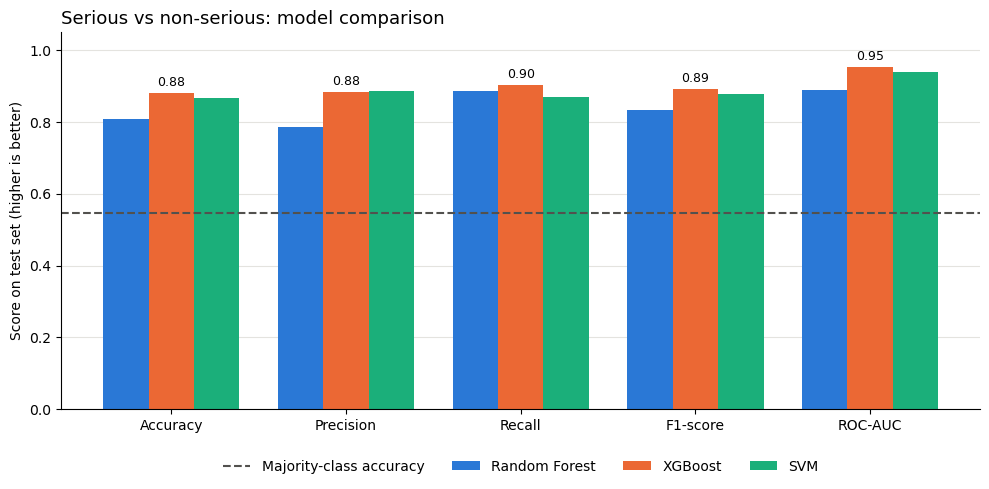
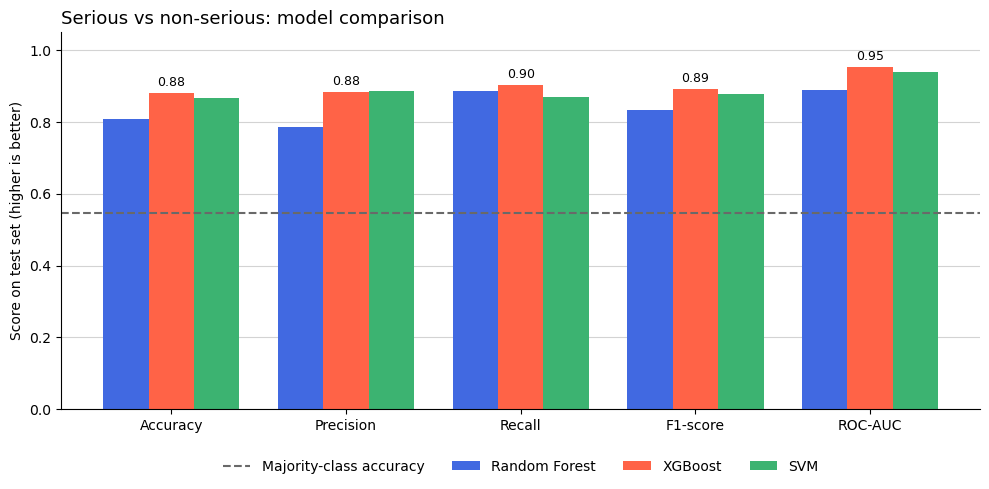
add results, figures and setup guide to README

diff --git a/README.md b/README.md
@@ -1,2 +1,93 @@
-# adr-prediction-system
-AI-based adverse drug reaction prediction system using FAERS data, machine learning, and SHAP explainability.
+# AI-Based Adverse Drug Reaction Prediction System
+
+Predicts whether a reported adverse drug event is **serious** (death, hospitalisation, life-threatening, disability) or **non-serious**,
+using FDA FAERS reports, machine learning and SHAP explanations, with a Streamlit app that explains every prediction.
+
+**Author:** Krish Sharma
+
+> **Not medical advice.** Predictions describe patterns in FAERS *reports*; they do not show that a drug caused a reaction.
+
+---
+
+## The app
+
+Enter a patient's age, sex, drugs and reported reactions. The app shows whether the event is likely serious, the probability,
+and the details that pushed the prediction up or down.
+
+**Serious:** cancer treatment with pneumonia and febrile neutropenia, 99.6%
+
+![Serious prediction: 99.6%](reports/figures/app_serious.png)
+
+**Non-serious:** eczema injection (dupilumab) with injection site pain, 1.5%
+
+![Non-serious prediction: 1.5%](reports/figures/app_non_serious.png)
+
+---
+
+## How it works
+
+![Pipeline: FAERS data, cleaning, features, models, SHAP, Streamlit app](reports/figures/pipeline.png)
+
+1. **Data_Prep:** joins FAERS 2025 Q1 files, removes duplicates, groups drugs by ingredient, builds the serious target
+2. **Feature_Engineering:** 80/20 split, 809 features (age, sex, 500 ingredients, 300 reactions, counts)
+3. **Model_Training:** Random Forest, XGBoost and SVM, best chosen on a validation set
+4. **Explainability:** SHAP values for the selected model
+5. **app/app.py:** the Streamlit app
+
+**Leakage check:** reaction terms that restate the outcome (*Death*, *Hospitalisation*) are removed from the inputs,
+and the 13,737 reports that listed only those terms are dropped.
+
+---
+
+## Results
+
+Test set: 77,356 reports the models never saw.
+
+| Model | Accuracy | Precision | Recall | F1-score | ROC-AUC |
+|---|---|---|---|---|---|
+| Majority class (baseline) | 0.546 | 0.546 | 1.000 | 0.707 | 0.500 |
+| Random Forest | 0.807 | 0.786 | 0.887 | 0.834 | 0.890 |
+| **XGBoost (selected)** | **0.881** | 0.883 | **0.902** | **0.892** | **0.953** |
+| SVM (linear) | 0.868 | **0.887** | 0.869 | 0.878 | 0.939 |
+
+XGBoost catches **90% of serious reports** (38,110 of 42,262) with 88% precision.
+
+![Model comparison](reports/figures/model_comparison.png)
+
+### What drives the predictions (SHAP)
+
+![SHAP feature importance](reports/figures/shap_importance.png)
+
+![SHAP beeswarm plot](reports/figures/shap_beeswarm.png)
+
+- Serious medical reactions (pneumonia, sepsis, seizure, kidney injury) push towards **serious**.
+- Product and device issues push towards **non-serious**.
+- Reports with more drugs or reactions are more often serious.
+
+---
+
+## Run it
+
+Needs Python 3.12 or newer.
+
+```bash
+pip install -r requirements.txt
+```
+
+1. Download the **ASCII** zip for **2025 Q1** from the [FDA FAERS page](https://fis.fda.gov/extensions/FPD-QDE-FAERS/FPD-QDE-FAERS.html).
+   Convert the `$`-separated DEMO, DRUG, REAC and OUTC files to CSV (`demo2025q1.csv`, `drug2025q1.csv`, ...)
+   in `data/raw/2025Q1/`, and copy `DELETE25Q1.txt` there as `delete2025q1.txt`.
+2. Run the notebooks in order: `Data_Prep` → `Feature_Engineering` → `Model_Training` → `Explainability`.
+3. Start the app:
+
+```bash
+streamlit run app/app.py
+```
+
+## Tech stack
+
+Pandas · NumPy · scikit-learn · XGBoost · SHAP · Matplotlib · Streamlit
+
+## License
+
+MIT. See [LICENSE](LICENSE).
